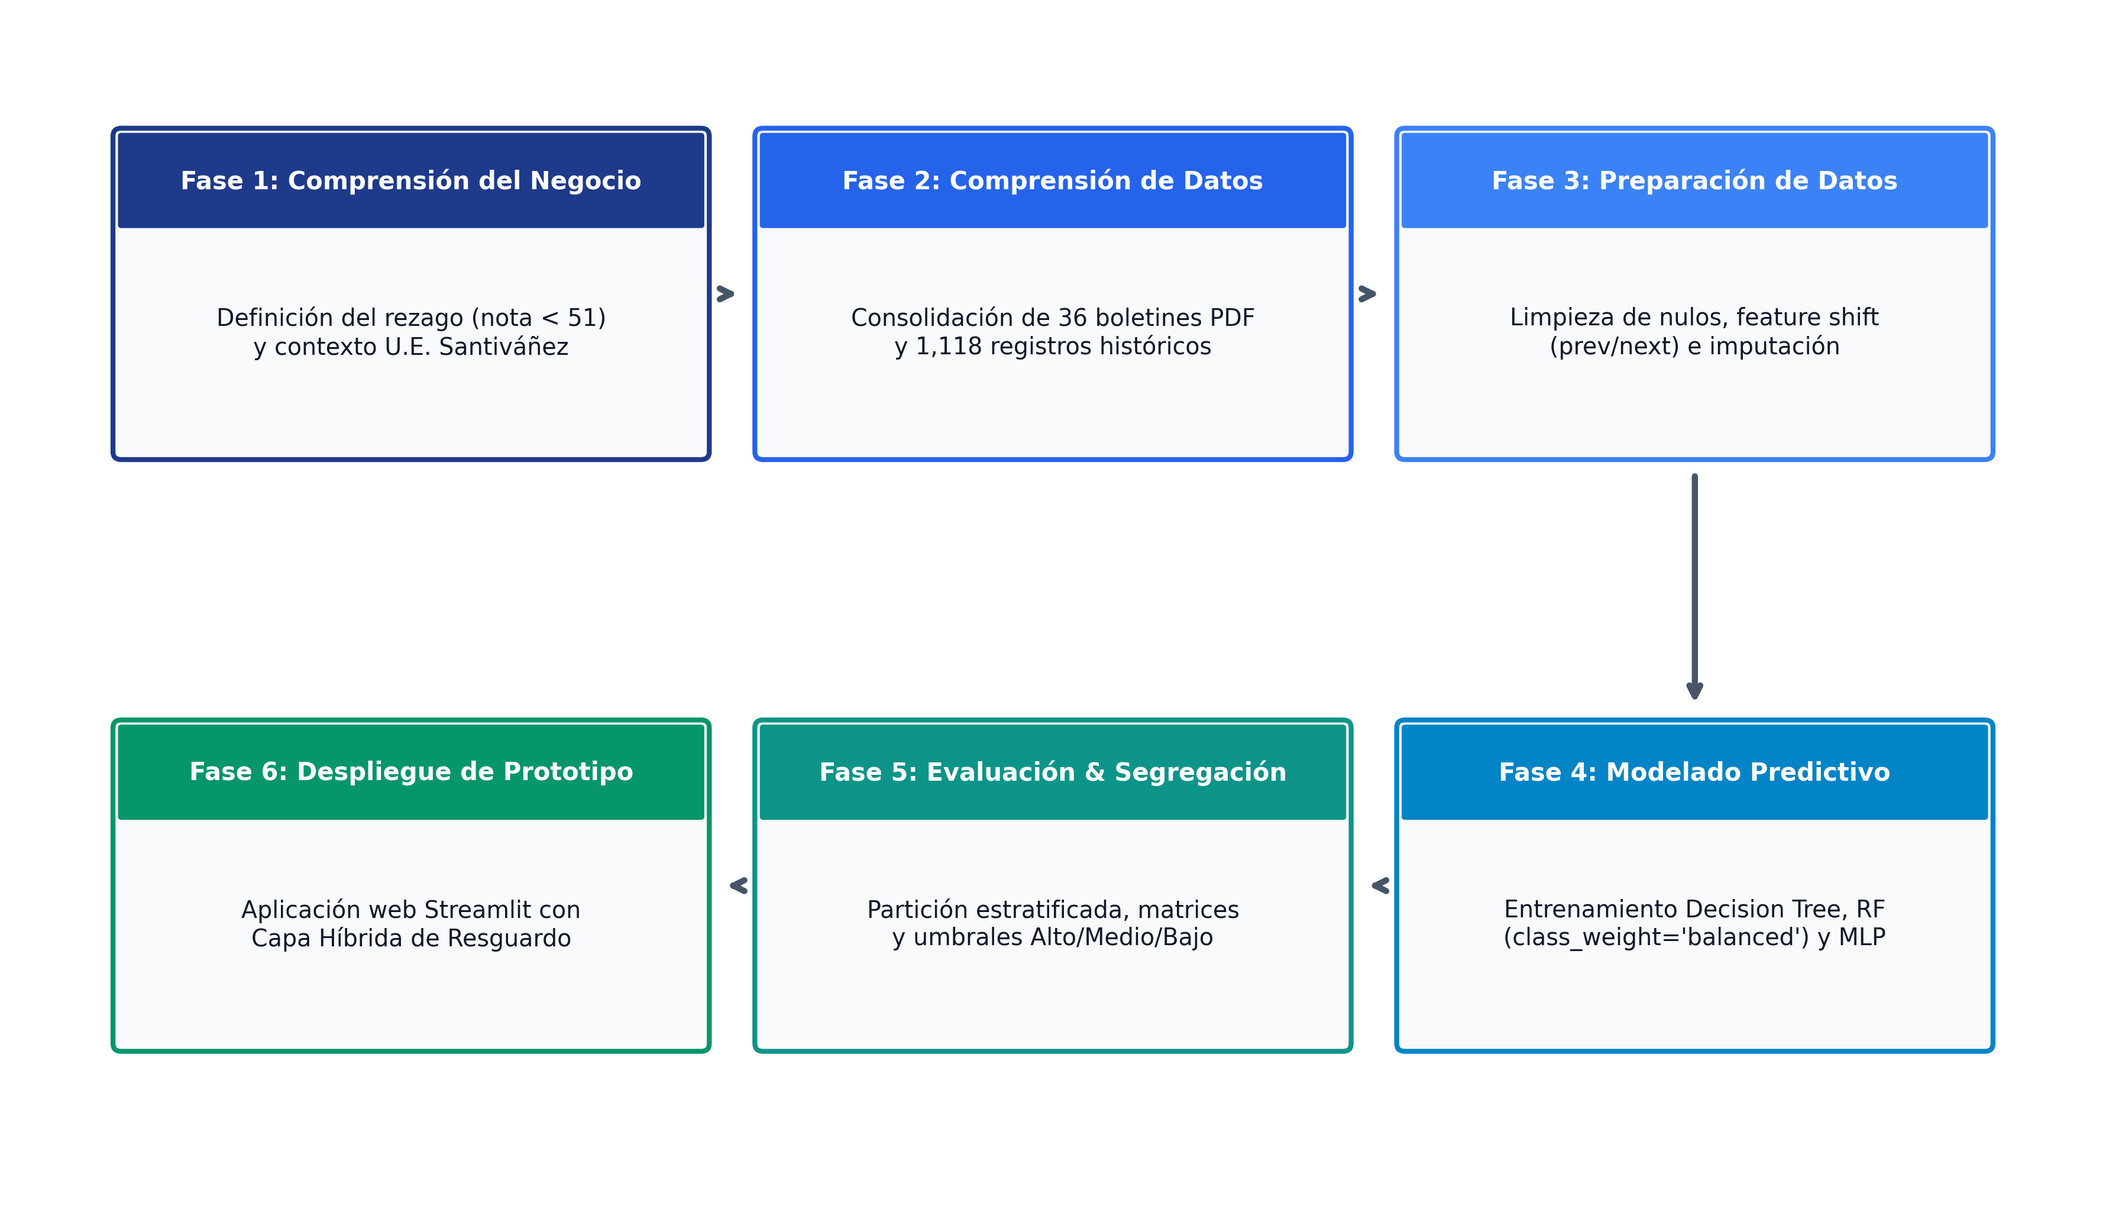
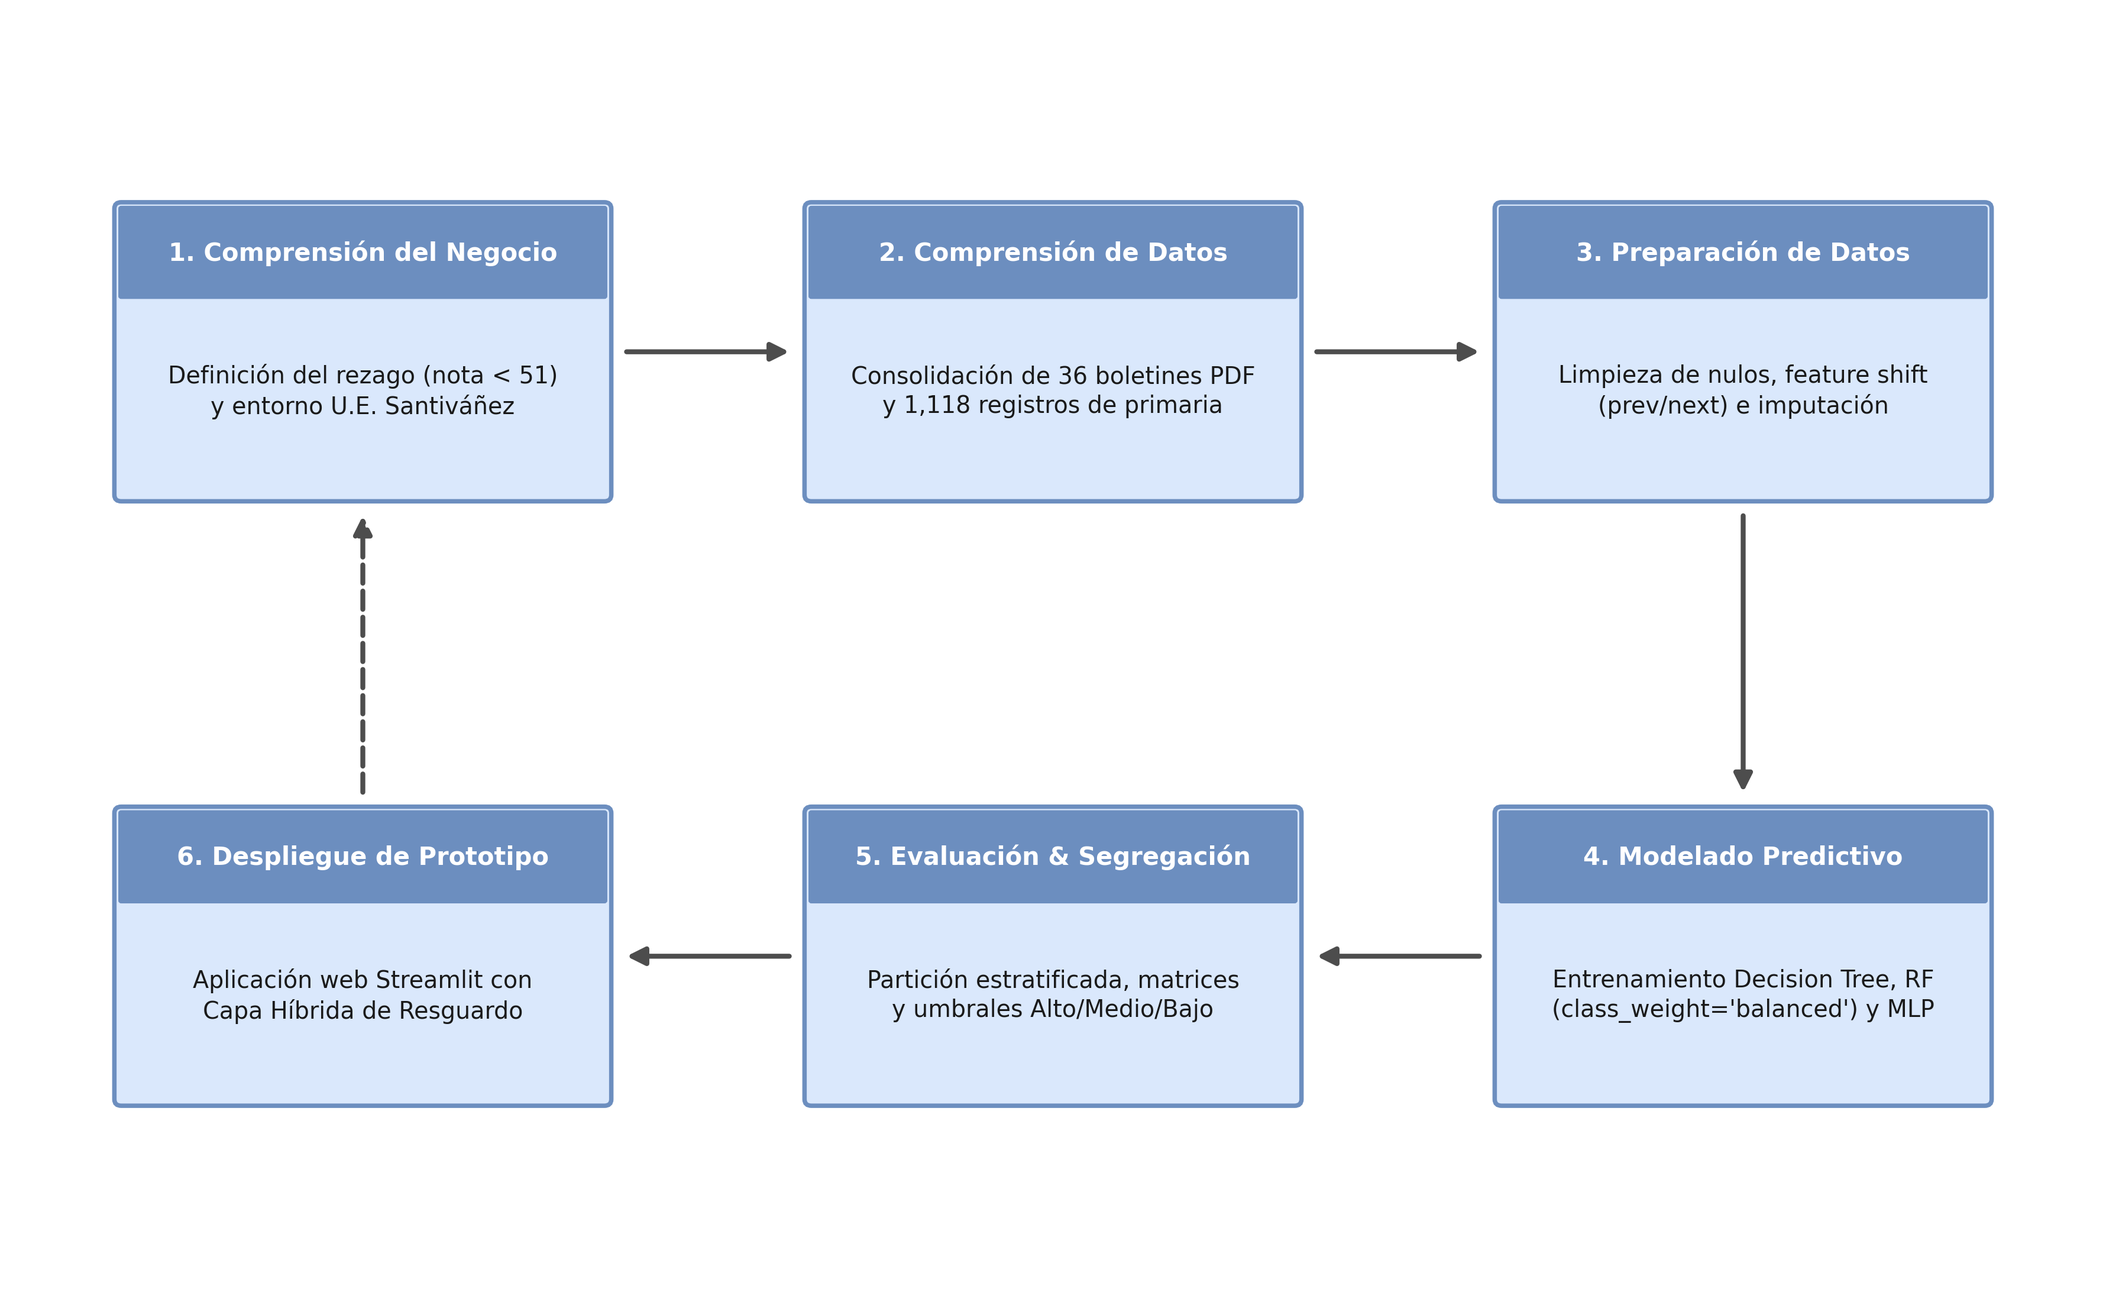
docs: recrear diagramas de la Serie 3 en estilo vectorial profesional tipo Draw.io

diff --git a/scripts/generate_all_figures.py b/scripts/generate_all_figures.py
@@ -40,163 +40,181 @@ nombres_materias = {
 }
 
 # ==============================================================================
-# FIGURA 3.1: FLUJOGRAMA METODOLÓGICO CRISP-DM ADAPTADO
+# FIGURA 3.1: FLUJOGRAMA METODOLÓGICO CRISP-DM (ESTILO DRAW.IO)
 # ==============================================================================
 def gen_fig_3_1():
-    fig, ax = plt.subplots(figsize=(12, 7), dpi=300)
+    fig, ax = plt.subplots(figsize=(12, 7.5), dpi=300)
     ax.axis('off')
-    ax.set_xlim(0, 10)
-    ax.set_ylim(0, 6)
+    ax.set_xlim(0, 12)
+    ax.set_ylim(0, 8)
+    
+    # Draw.io Classic Palette: Soft Blue #DAE8FC, Border #6C8EBF
+    bg_color = "#DAE8FC"
+    border_color = "#6C8EBF"
+    header_color = "#6C8EBF"
     
     phases = [
-        ("Fase 1: Comprensión del Negocio", "Definición del rezago (nota < 51)\ny contexto U.E. Santiváñez", "#1E3A8A", (0.5, 3.8)),
-        ("Fase 2: Comprensión de Datos", "Consolidación de 36 boletines PDF\ny 1,118 registros históricos", "#2563EB", (3.6, 3.8)),
-        ("Fase 3: Preparación de Datos", "Limpieza de nulos, feature shift\n(prev/next) e imputación", "#3B82F6", (6.7, 3.8)),
-        ("Fase 6: Despliegue de Prototipo", "Aplicación web Streamlit con\nCapa Híbrida de Resguardo", "#059669", (0.5, 0.8)),
-        ("Fase 5: Evaluación & Segregación", "Partición estratificada, matrices\ny umbrales Alto/Medio/Bajo", "#0D9488", (3.6, 0.8)),
-        ("Fase 4: Modelado Predictivo", "Entrenamiento Decision Tree, RF\n(class_weight='balanced') y MLP", "#0284C7", (6.7, 0.8))
+        ("1. Comprensión del Negocio", "Definición del rezago (nota < 51)\ny entorno U.E. Santiváñez", (0.6, 5.0)),
+        ("2. Comprensión de Datos", "Consolidación de 36 boletines PDF\ny 1,118 registros de primaria", (4.6, 5.0)),
+        ("3. Preparación de Datos", "Limpieza de nulos, feature shift\n(prev/next) e imputación", (8.6, 5.0)),
+        ("6. Despliegue de Prototipo", "Aplicación web Streamlit con\nCapa Híbrida de Resguardo", (0.6, 1.2)),
+        ("5. Evaluación & Segregación", "Partición estratificada, matrices\ny umbrales Alto/Medio/Bajo", (4.6, 1.2)),
+        ("4. Modelado Predictivo", "Entrenamiento Decision Tree, RF\n(class_weight='balanced') y MLP", (8.6, 1.2))
     ]
     
-    for title, desc, color, (x, y) in phases:
-        # Container Box
-        box = mpatches.FancyBboxPatch((x, y), 2.8, 1.6, boxstyle="round,pad=0.04", 
-                                      ec=color, fc='#F8FAFC', lw=2)
+    for title, desc, (x, y) in phases:
+        # Draw.io Rounded Process Box
+        box = mpatches.FancyBboxPatch((x, y), 2.8, 1.8, boxstyle="round,pad=0.04", 
+                                      ec=border_color, fc=bg_color, lw=1.8)
         ax.add_patch(box)
         
-        # Header Banner
-        banner = mpatches.FancyBboxPatch((x, y + 1.15), 2.8, 0.45, boxstyle="round,pad=0.01", 
-                                         ec=color, fc=color, lw=1)
+        # Draw.io Title Header Bar
+        banner = mpatches.FancyBboxPatch((x, y + 1.25), 2.8, 0.55, boxstyle="round,pad=0.01", 
+                                         ec=border_color, fc=header_color, lw=1)
         ax.add_patch(banner)
         
-        # Text
-        ax.text(x + 1.4, y + 1.37, title, color='white', weight='bold', fontsize=10, ha='center', va='center')
-        ax.text(x + 1.4, y + 0.60, desc, color='#0F172A', fontsize=9.5, ha='center', va='center', multialignment='center')
+        ax.text(x + 1.4, y + 1.52, title, color='white', weight='bold', fontsize=10, ha='center', va='center')
+        ax.text(x + 1.4, y + 0.65, desc, color='#1A1A1A', fontsize=9.5, ha='center', va='center', multialignment='center', linespacing=1.3)
 
-    # Connecting Arrows for CRISP-DM Cycle
-    # Top row left-to-right
-    ax.annotate('', xy=(3.5, 4.6), xytext=(3.4, 4.6), arrowprops=dict(arrowstyle="->", color="#475569", lw=2.5))
-    ax.annotate('', xy=(6.6, 4.6), xytext=(6.5, 4.6), arrowprops=dict(arrowstyle="->", color="#475569", lw=2.5))
+    # Draw.io Connectors (Orthogonal arrows with solid arrowheads)
+    # Top Row
+    ax.annotate('', xy=(4.5, 5.9), xytext=(3.5, 5.9), arrowprops=dict(arrowstyle="-|>", color="#4D4D4D", lw=2, mutation_scale=15))
+    ax.annotate('', xy=(8.5, 5.9), xytext=(7.5, 5.9), arrowprops=dict(arrowstyle="-|>", color="#4D4D4D", lw=2, mutation_scale=15))
     
-    # Right side top-to-bottom
-    ax.annotate('', xy=(8.1, 2.5), xytext=(8.1, 3.7), arrowprops=dict(arrowstyle="->", color="#475569", lw=2.5))
+    # Right Drop
+    ax.annotate('', xy=(10.0, 3.1), xytext=(10.0, 4.9), arrowprops=dict(arrowstyle="-|>", color="#4D4D4D", lw=2, mutation_scale=15))
     
-    # Bottom row right-to-left
-    ax.annotate('', xy=(6.5, 1.6), xytext=(6.6, 1.6), arrowprops=dict(arrowstyle="->", color="#475569", lw=2.5))
-    ax.annotate('', xy=(3.4, 1.6), xytext=(3.5, 1.6), arrowprops=dict(arrowstyle="->", color="#475569", lw=2.5))
+    # Bottom Row
+    ax.annotate('', xy=(7.5, 2.1), xytext=(8.5, 2.1), arrowprops=dict(arrowstyle="-|>", color="#4D4D4D", lw=2, mutation_scale=15))
+    ax.annotate('', xy=(3.5, 2.1), xytext=(4.5, 2.1), arrowprops=dict(arrowstyle="-|>", color="#4D4D4D", lw=2, mutation_scale=15))
+    
+    # Left Return (CRISP-DM Iterative Loop)
+    ax.annotate('', xy=(2.0, 4.9), xytext=(2.0, 3.1), arrowprops=dict(arrowstyle="-|>", color="#4D4D4D", lw=2, mutation_scale=15, linestyle='--'))
     
     plt.tight_layout()
     plt.savefig(os.path.join(FIG_DIR, "fig_3_1_flujograma_crisp_dm.png"), dpi=300, bbox_inches='tight')
     plt.close()
-    print("Generated fig_3_1_flujograma_crisp_dm.png (Redesigned)")
+    print("Generated fig_3_1_flujograma_crisp_dm.png (Draw.io Vector Style)")
 
 # ==============================================================================
-# FIGURA 3.2: ARQUITECTURA DE SOFTWARE DEL PROTOTIPO
+# FIGURA 3.2: ARQUITECTURA DE SOFTWARE DEL PROTOTIPO (ESTILO DRAW.IO)
 # ==============================================================================
 def gen_fig_3_2():
-    fig, ax = plt.subplots(figsize=(13, 6), dpi=300)
+    fig, ax = plt.subplots(figsize=(13.5, 6.5), dpi=300)
     ax.axis('off')
-    ax.set_xlim(0, 13)
-    ax.set_ylim(0, 6)
+    ax.set_xlim(0, 13.5)
+    ax.set_ylim(0, 6.5)
     
     components = [
-        ("1. Capa de Datos", "data/03_Datasets_Procesados/\nprimaria_dataset.csv\n(1,118 registros)", "#475569", 0.4),
-        ("2. Modelos ML (.pkl)", "Random Forest (RF)\nRed Neuronal (MLP)\nScaler (StandardScaler)", "#0EA5E9", 3.6),
-        ("3. Motor Híbrido", "src/predictor.py\n(ML Inference +\nResguardo Normativo)", "#8B5CF6", 6.8),
-        ("4. Interfaz Streamlit", "src/ui/\n(Tab 1: Monitoreo\nTab 2: Ficha Estudiante\nTab 3: Simulador Libre)", "#10B981", 10.0)
+        ("1. Capa de Datos", "data/03_Datasets_Procesados/\nprimaria_dataset.csv\n(1,118 registros)", "#E1D5E7", "#9673A6", 0.5),
+        ("2. Modelos ML (.pkl)", "Random Forest (RF)\nRed Neuronal (MLP)\nScaler (StandardScaler)", "#DAE8FC", "#6C8EBF", 3.7),
+        ("3. Motor Híbrido", "src/predictor.py\n(ML Inference +\nResguardo Normativo)", "#FFF2CC", "#D6B656", 6.9),
+        ("4. Interfaz Streamlit", "src/ui/\n(Tab 1: Monitoreo\nTab 2: Ficha Estudiante\nTab 3: Simulador Libre)", "#D5E8D4", "#82B366", 10.1)
     ]
     
-    for title, desc, color, x in components:
-        # Container Box
-        box = mpatches.FancyBboxPatch((x, 1.2), 2.6, 3.6, boxstyle="round,pad=0.05", 
-                                      ec=color, fc='#F8FAFC', lw=2)
+    for title, desc, bg_col, border_col, x in components:
+        # Outer Card
+        box = mpatches.FancyBboxPatch((x, 1.2), 2.8, 4.0, boxstyle="round,pad=0.05", 
+                                      ec=border_col, fc=bg_col, lw=1.8)
         ax.add_patch(box)
         
         # Header Banner
-        banner = mpatches.FancyBboxPatch((x, 4.0), 2.6, 0.8, boxstyle="round,pad=0.01", 
-                                         ec=color, fc=color, lw=1)
+        banner = mpatches.FancyBboxPatch((x, 4.3), 2.8, 0.9, boxstyle="round,pad=0.01", 
+                                         ec=border_col, fc=border_col, lw=1)
         ax.add_patch(banner)
         
-        # Text inside
-        ax.text(x + 1.3, 4.4, title, color='white', weight='bold', fontsize=11, ha='center', va='center')
-        ax.text(x + 1.3, 2.6, desc, color='#0F172A', fontsize=10, ha='center', va='center', multialignment='center', linespacing=1.4)
+        ax.text(x + 1.4, 4.75, title, color='white', weight='bold', fontsize=11, ha='center', va='center')
+        ax.text(x + 1.4, 2.7, desc, color='#1A1A1A', fontsize=9.5, ha='center', va='center', multialignment='center', linespacing=1.4)
         
-    # Flow Arrows between stages
-    for x_arrow in [3.1, 6.3, 9.5]:
-        ax.annotate('', xy=(x_arrow + 0.45, 3.0), xytext=(x_arrow - 0.05, 3.0),
-                    arrowprops=dict(arrowstyle="->", color="#334155", lw=3.0))
+    # Draw.io Orthogonal Connectors with Labels
+    arrow_labels = ["Dataset Base", "Model Ingest", "Prediction API"]
+    for i, x_arrow in enumerate([3.4, 6.6, 9.8]):
+        ax.annotate('', xy=(x_arrow + 0.25, 3.2), xytext=(x_arrow - 0.05, 3.2),
+                    arrowprops=dict(arrowstyle="-|>", color="#4D4D4D", lw=2.2, mutation_scale=15))
         
     plt.tight_layout()
     plt.savefig(os.path.join(FIG_DIR, "fig_3_2_arquitectura_software.png"), dpi=300, bbox_inches='tight')
     plt.close()
-    print("Generated fig_3_2_arquitectura_software.png (Redesigned)")
+    print("Generated fig_3_2_arquitectura_software.png (Draw.io Vector Style)")
 
 # ==============================================================================
-# FIGURA 3.3: FLUJO DE LA CAPA DE RESGUARDO PEDAGÓGICO
+# FIGURA 3.3: FLUJO DE LA CAPA DE RESGUARDO (ESTILO DRAW.IO FLOWCHART REAL)
 # ==============================================================================
 def gen_fig_3_3():
-    fig, ax = plt.subplots(figsize=(13, 8.5), dpi=300)
+    fig, ax = plt.subplots(figsize=(13, 9.5), dpi=300)
     ax.axis('off')
     ax.set_xlim(0, 13)
-    ax.set_ylim(0, 9)
+    ax.set_ylim(0, 10)
     
-    # 1. Start Node
-    box_start = mpatches.FancyBboxPatch((4.2, 7.3), 4.6, 1.1, boxstyle="round,pad=0.04", ec="#2563EB", fc="#EFF6FF", lw=2)
+    # 1. Start Event (Rounded Pill)
+    box_start = mpatches.FancyBboxPatch((4.2, 8.4), 4.6, 1.0, boxstyle="round,pad=0.2", ec="#9673A6", fc="#E1D5E7", lw=1.8)
     ax.add_patch(box_start)
-    ax.text(6.5, 7.85, "Entrada del Estudiante\n(Promedio General & N° Materias Reprobadas)", ha='center', va='center', weight='bold', color='#1E3A8A', fontsize=10.5)
+    ax.text(6.5, 8.9, "Inicio: Evaluación del Estudiante\n(Promedio General & N° Reprobadas)", ha='center', va='center', weight='bold', color='#1A1A1A', fontsize=10)
     
-    # 2. ML Inference Node
-    box_ml = mpatches.FancyBboxPatch((4.2, 5.5), 4.6, 1.1, boxstyle="round,pad=0.04", ec="#8B5CF6", fc="#F5F3FF", lw=2)
+    # 2. Process 1 (Rounded Box)
+    box_ml = mpatches.FancyBboxPatch((4.2, 6.8), 4.6, 1.0, boxstyle="round,pad=0.04", ec="#6C8EBF", fc="#DAE8FC", lw=1.8)
     ax.add_patch(box_ml)
-    ax.text(6.5, 6.05, "Inferencia de Modelo Machine Learning\n(Calcula Probabilidad Base P_ML)", ha='center', va='center', weight='bold', color='#5B21B6', fontsize=10.5)
+    ax.text(6.5, 7.3, "Inferencia de Modelo Machine Learning\n(Calcula Probabilidad Base P_ML)", ha='center', va='center', weight='bold', color='#1A1A1A', fontsize=10)
     
-    # Arrow Start -> ML
-    ax.annotate('', xy=(6.5, 6.6), xytext=(6.5, 7.3), arrowprops=dict(arrowstyle="->", color="#334155", lw=2.5))
+    ax.annotate('', xy=(6.5, 7.8), xytext=(6.5, 8.4), arrowprops=dict(arrowstyle="-|>", color="#4D4D4D", lw=2, mutation_scale=15))
     
-    # 3. Decision Node 1
-    box_d1 = mpatches.FancyBboxPatch((3.8, 3.6), 5.4, 1.3, boxstyle="round,pad=0.04", ec="#F59E0B", fc="#FFFBEB", lw=2.5)
-    ax.add_patch(box_d1)
-    ax.text(6.5, 4.25, "¿Promedio < 51.0  Ó  N° Reprobadas ≥ 2?", ha='center', va='center', weight='bold', color='#92400E', fontsize=11)
+    # 3. Decision 1 (True Draw.io Diamond Shape)
+    diamond1_x = [6.5, 9.2, 6.5, 3.8]
+    diamond1_y = [6.2, 5.0, 3.8, 5.0]
+    ax.fill(diamond1_x, diamond1_y, color="#FFF2CC", ec="#D6B656", lw=2)
+    ax.text(6.5, 5.0, "¿Promedio < 51.0  Ó\nN° Reprobadas ≥ 2?", ha='center', va='center', weight='bold', color='#1A1A1A', fontsize=10)
     
-    # Arrow ML -> D1
-    ax.annotate('', xy=(6.5, 4.9), xytext=(6.5, 5.5), arrowprops=dict(arrowstyle="->", color="#334155", lw=2.5))
+    ax.annotate('', xy=(6.5, 6.2), xytext=(6.5, 6.8), arrowprops=dict(arrowstyle="-|>", color="#4D4D4D", lw=2, mutation_scale=15))
     
-    # YES Branch (Left) -> ALTO RIESGO
-    ax.annotate('', xy=(2.0, 2.7), xytext=(4.2, 3.6), arrowprops=dict(arrowstyle="->", color="#EF4444", lw=2.5))
-    ax.text(2.6, 3.3, "SÍ", color='#DC2626', weight='bold', fontsize=12)
+    # YES Branch 1 (Left) -> ALTO RIESGO
+    ax.annotate('', xy=(1.9, 3.2), xytext=(3.8, 5.0), arrowprops=dict(arrowstyle="-|>", color="#B85450", lw=2, mutation_scale=15))
     
-    box_alto = mpatches.FancyBboxPatch((0.5, 1.0), 3.0, 1.7, boxstyle="round,pad=0.04", ec="#EF4444", fc="#FEF2F2", lw=2.5)
+    # Pill label for YES
+    lbl_yes1 = mpatches.FancyBboxPatch((2.4, 4.2), 0.6, 0.35, boxstyle="round,pad=0.01", ec="#B85450", fc="#F8CECC")
+    ax.add_patch(lbl_yes1)
+    ax.text(2.7, 4.37, "SÍ", color='#B85450', weight='bold', fontsize=9.5, ha='center', va='center')
+    
+    box_alto = mpatches.FancyBboxPatch((0.4, 1.6), 3.0, 1.6, boxstyle="round,pad=0.04", ec="#B85450", fc="#F8CECC", lw=2)
     ax.add_patch(box_alto)
-    ax.text(2.0, 1.85, "🔴 ALTO RIESGO\n\nP_final = max(P_ML, 0.85)\nIntervención Prioritaria", ha='center', va='center', weight='bold', color='#991B1B', fontsize=10.5, linespacing=1.3)
+    ax.text(1.9, 2.4, "ALTO RIESGO\n\nP_final = max(P_ML, 0.85)\nIntervención Prioritaria", ha='center', va='center', weight='bold', color='#660000', fontsize=10, linespacing=1.3)
 
-    # NO Branch (Right) -> Decision Node 2
-    ax.annotate('', xy=(6.5, 2.7), xytext=(6.5, 3.6), arrowprops=dict(arrowstyle="->", color="#2563EB", lw=2.5))
-    ax.text(6.7, 3.15, "NO", color='#2563EB', weight='bold', fontsize=12)
+    # NO Branch 1 (Down) -> Decision 2
+    ax.annotate('', xy=(6.5, 3.6), xytext=(6.5, 3.8), arrowprops=dict(arrowstyle="-|>", color="#4D4D4D", lw=2, mutation_scale=15))
+    lbl_no1 = mpatches.FancyBboxPatch((6.7, 3.4), 0.6, 0.35, boxstyle="round,pad=0.01", ec="#6C8EBF", fc="#DAE8FC")
+    ax.add_patch(lbl_no1)
+    ax.text(7.0, 3.57, "NO", color='#2B547E', weight='bold', fontsize=9.5, ha='center', va='center')
     
-    # 4. Decision Node 2
-    box_d2 = mpatches.FancyBboxPatch((4.3, 1.0), 4.4, 1.7, boxstyle="round,pad=0.04", ec="#3B82F6", fc="#EFF6FF", lw=2)
-    ax.add_patch(box_d2)
-    ax.text(6.5, 1.85, "¿Reprobadas == 1  Ó\n51.0 ≤ Promedio < 60.0?", ha='center', va='center', weight='bold', color='#1E40AF', fontsize=10.5)
+    # 4. Decision 2 (True Draw.io Diamond Shape)
+    diamond2_x = [6.5, 9.2, 6.5, 3.8]
+    diamond2_y = [3.6, 2.4, 1.2, 2.4]
+    ax.fill(diamond2_x, diamond2_y, color="#FFF2CC", ec="#D6B656", lw=2)
+    ax.text(6.5, 2.4, "¿Reprobadas == 1  Ó\n51.0 ≤ Promedio < 60.0?", ha='center', va='center', weight='bold', color='#1A1A1A', fontsize=9.5)
     
-    # Branch 2 YES (Top Right) -> MEDIO RIESGO
-    ax.annotate('', xy=(9.4, 2.6), xytext=(8.7, 2.2), arrowprops=dict(arrowstyle="->", color="#F59E0B", lw=2.5))
-    ax.text(9.0, 2.6, "SÍ", color='#D97706', weight='bold', fontsize=11)
+    # Branch 2 YES (Left) -> MEDIO RIESGO
+    ax.annotate('', xy=(5.2, 0.8), xytext=(5.2, 1.7), arrowprops=dict(arrowstyle="-|>", color="#D6B656", lw=2, mutation_scale=15))
+    lbl_yes2 = mpatches.FancyBboxPatch((5.4, 1.3), 0.6, 0.35, boxstyle="round,pad=0.01", ec="#D6B656", fc="#FFF2CC")
+    ax.add_patch(lbl_yes2)
+    ax.text(5.7, 1.47, "SÍ", color='#B45309', weight='bold', fontsize=9.5, ha='center', va='center')
     
-    box_medio = mpatches.FancyBboxPatch((9.4, 2.0), 3.1, 1.5, boxstyle="round,pad=0.04", ec="#F59E0B", fc="#FFFBEB", lw=2.5)
+    box_medio = mpatches.FancyBboxPatch((3.7, -0.8), 3.0, 1.5, boxstyle="round,pad=0.04", ec="#D6B656", fc="#FFF2CC", lw=2)
     ax.add_patch(box_medio)
-    ax.text(10.95, 2.75, "🟡 MEDIO RIESGO\n\nP_final = max(P_ML, 0.50)\nSeguimiento Bimensual", ha='center', va='center', weight='bold', color='#B45309', fontsize=10, linespacing=1.3)
+    ax.text(5.2, -0.05, "MEDIO RIESGO\n\nP_final = max(P_ML, 0.50)\nSeguimiento Bimensual", ha='center', va='center', weight='bold', color='#B45309', fontsize=9.5, linespacing=1.3)
 
-    # Branch 2 NO (Bottom Right) -> BAJO RIESGO
-    ax.annotate('', xy=(9.4, 0.8), xytext=(8.7, 1.3), arrowprops=dict(arrowstyle="->", color="#10B981", lw=2.5))
-    ax.text(9.0, 0.9, "NO", color='#059669', weight='bold', fontsize=11)
+    # Branch 2 NO (Right) -> BAJO RIESGO
+    ax.annotate('', xy=(9.4, 0.8), xytext=(7.8, 1.7), arrowprops=dict(arrowstyle="-|>", color="#82B366", lw=2, mutation_scale=15))
+    lbl_no2 = mpatches.FancyBboxPatch((8.3, 1.3), 0.6, 0.35, boxstyle="round,pad=0.01", ec="#82B366", fc="#D5E8D4")
+    ax.add_patch(lbl_no2)
+    ax.text(8.6, 1.47, "NO", color='#274E13', weight='bold', fontsize=9.5, ha='center', va='center')
     
-    box_bajo = mpatches.FancyBboxPatch((9.4, 0.1), 3.1, 1.5, boxstyle="round,pad=0.04", ec="#10B981", fc="#ECFDF5", lw=2.5)
+    box_bajo = mpatches.FancyBboxPatch((8.0, -0.8), 3.0, 1.5, boxstyle="round,pad=0.04", ec="#82B366", fc="#D5E8D4", lw=2)
     ax.add_patch(box_bajo)
-    ax.text(10.95, 0.85, "🟢 BAJO RIESGO\n\nP_final = P_ML\nAcompañamiento Estándar", ha='center', va='center', weight='bold', color='#065F46', fontsize=10, linespacing=1.3)
+    ax.text(9.5, -0.05, "BAJO RIESGO\n\nP_final = P_ML\nAcompañamiento Estándar", ha='center', va='center', weight='bold', color='#274E13', fontsize=9.5, linespacing=1.3)
 
     plt.tight_layout()
     plt.savefig(os.path.join(FIG_DIR, "fig_3_3_capa_hibrida_resguardo.png"), dpi=300, bbox_inches='tight')
     plt.close()
-    print("Generated fig_3_3_capa_hibrida_resguardo.png (Redesigned & Clean)")
+    print("Generated fig_3_3_capa_hibrida_resguardo.png (Draw.io Flowchart Vector Style)")
+
 
 
 
